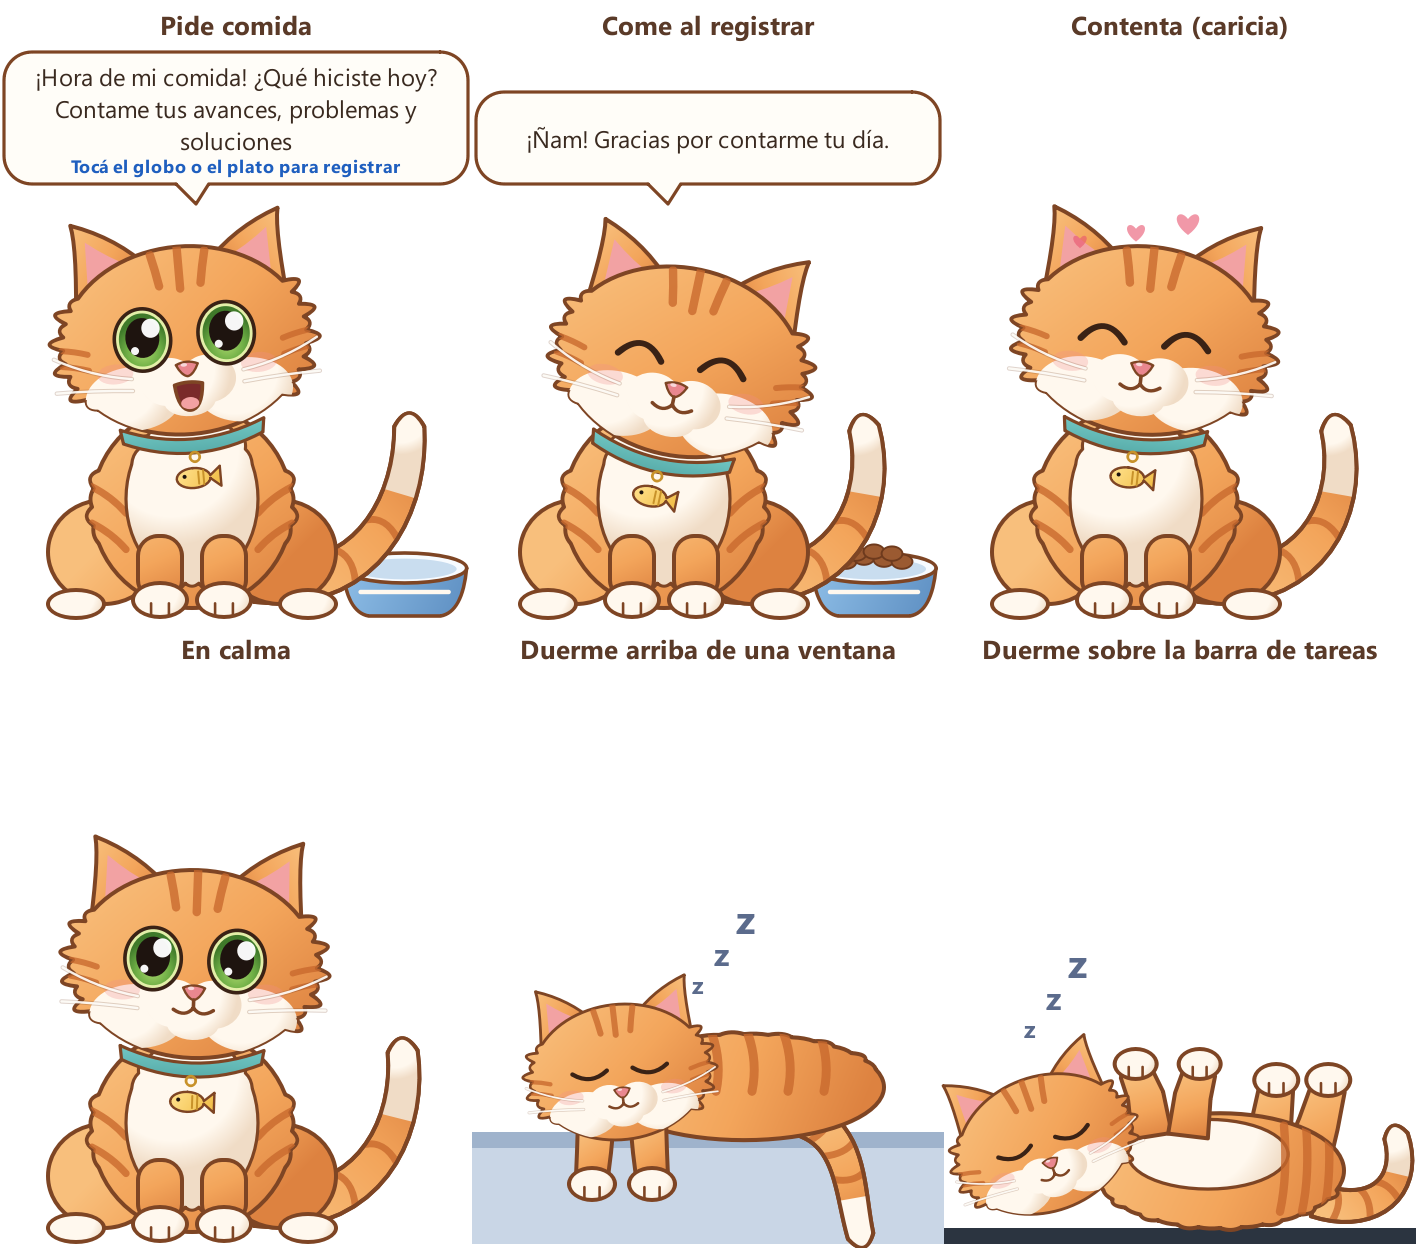
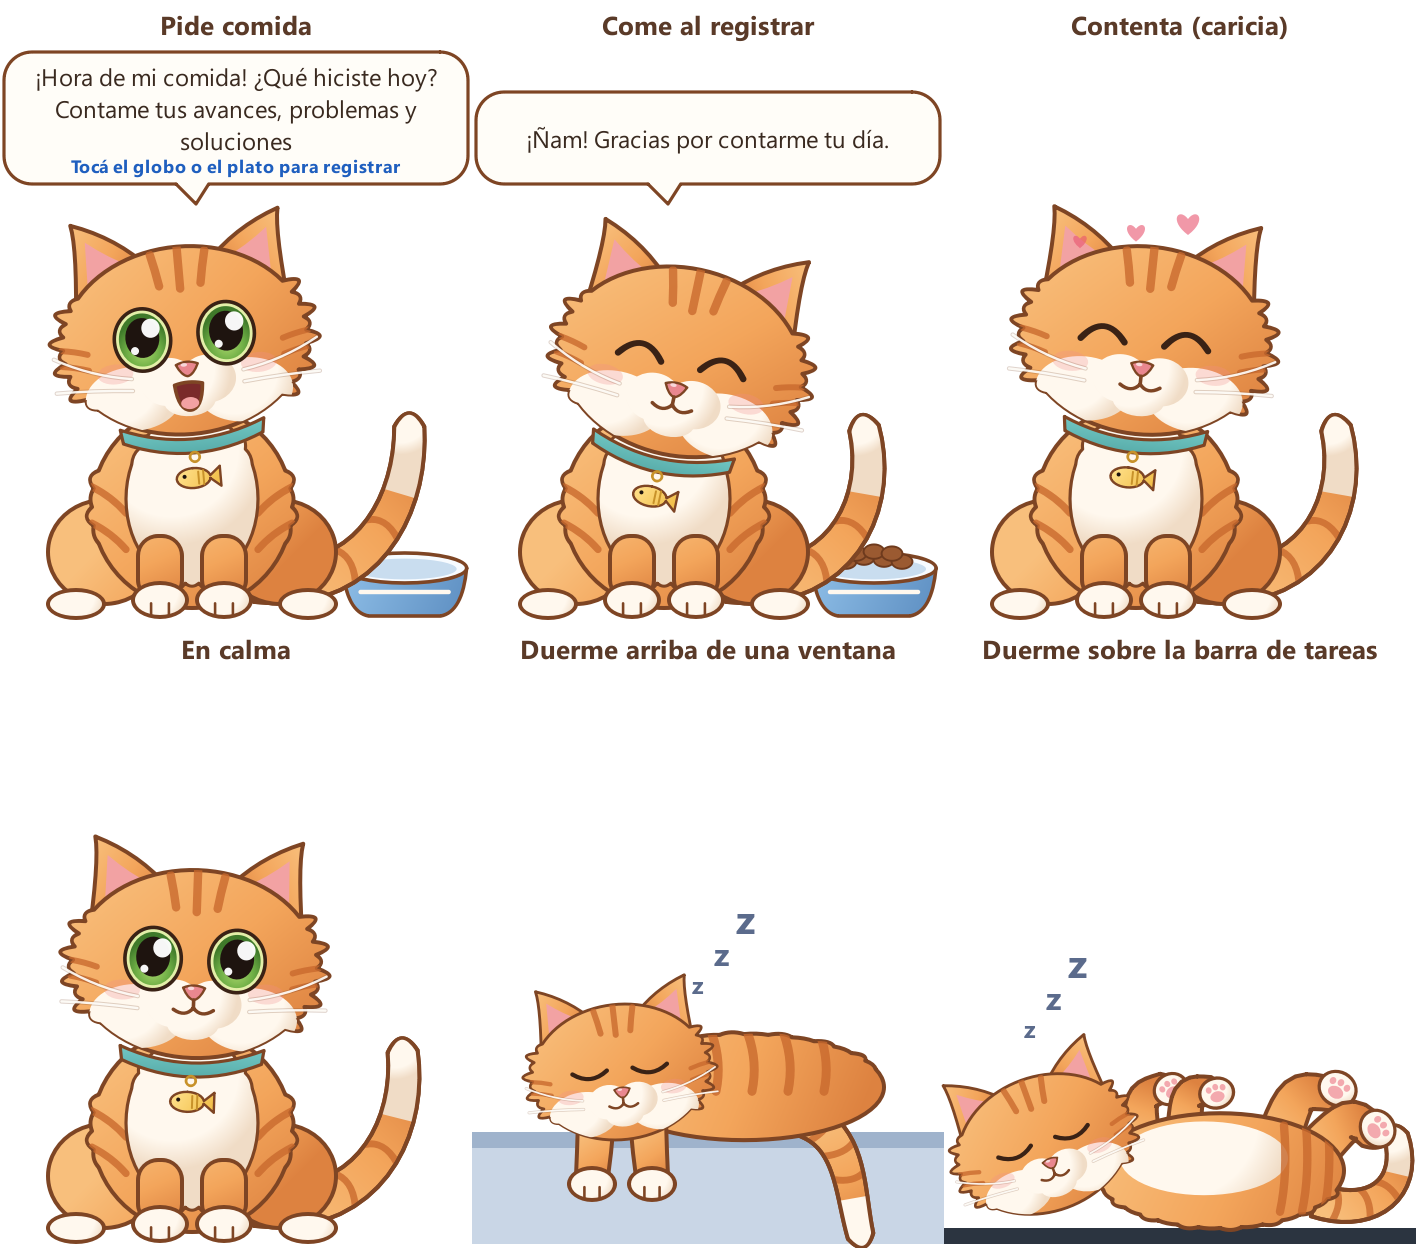
Cora: patas más naturales al dormir panza arriba
Patas cortas y dobladas que asoman detrás del cuerpo, patitas con almohadillas
rosadas que se mueven suave (amasando) y panza sin contorno.

Changed region(s): [[0.7768, 0.8438, 0.9944, 0.9688]]

diff --git a/coranotes/mascota/drawing.py b/coranotes/mascota/drawing.py
@@ -512,16 +512,48 @@ def pose_ventana(p, pal, v: Visual, t: float):
     p.restore()
 
 
+def draw_paw_pads(p, pal, cx, cy, r, angle=0.0):
+    """Patita vista desde abajo: blanca, con almohadilla y tres deditos rosados."""
+    p.save()
+    p.translate(cx, cy)
+    p.rotate(angle)
+    paw = QPainterPath()
+    paw.addEllipse(QPointF(0, 0), r, r * 0.88)
+    fill_outline(p, paw, white_brush(pal, 0, 0, r), pal, 1.7)
+    p.setPen(Qt.PenStyle.NoPen)
+    p.setBrush(pal.c(QColor("#F3A9AE")))
+    p.drawEllipse(QPointF(0, r * 0.22), r * 0.42, r * 0.32)        # almohadilla
+    for dx in (-0.42, 0.0, 0.42):                                   # deditos
+        p.drawEllipse(QPointF(dx * r, -r * 0.36 + abs(dx) * r * 0.25), r * 0.17, r * 0.19)
+    p.restore()
+
+
+def bent_leg(p, pal, base, knee, foot, w0, w1, n=10):
+    """Pata doblada (base -> rodilla -> pie) dibujada como un tubo suave."""
+    pts = bezier(base, knee, knee, foot, n)
+    widths = [w0 + (w1 - w0) * i / n for i in range(n + 1)]
+    path = tube(pts, widths)
+    fill_outline(p, path, fur_brush(pal, base[0], base[1], foot[0], foot[1]), pal)
+
+
 def pose_panza(p, pal, v: Visual, t: float):
     """Panza arriba sobre la barra de tareas: apoyo en y = SUELO['panza']."""
     ground = SUELO["panza"]
-    wig = math.sin(t * 3.0) * 3 if not v.reducido else 0
+    amasa = math.sin(t * 2.4) if not v.reducido else 0.0   # movimiento suave de las patitas
     draw_tail(p, pal, bezier((186, ground - 14), (214, ground - 4), (234, ground - 20), (226, ground - 46)), 17, 12)
-    # patas traseras arriba
-    for x, ang in ((160, 12), (180, 24)):
-        leg = tube([(x, ground - 30), (x + ang * 0.3, ground - 52), (x + ang * 0.5 + wig * 0.3, ground - 70)], [24, 20, 17])
-        fill_outline(p, leg, fur_brush(pal, x, ground - 70, x + 20, ground - 30), pal)
-        draw_paw(p, pal, x + ang * 0.5 + wig * 0.3, ground - 74, 11, 8)
+    # patas traseras: salen de detrás del cuerpo, con la rodilla doblada hacia afuera
+    for base, knee, foot, ang in (((166, ground - 40), (176, ground - 70), (194, ground - 66), 25),
+                                  ((182, ground - 34), (204, ground - 58), (214, ground - 46), 55)):
+        foot = (foot[0] + amasa * 1.2, foot[1] - abs(amasa) * 1.0)
+        bent_leg(p, pal, base, knee, foot, 22, 16)
+        draw_paw_pads(p, pal, foot[0] + 2, foot[1] - 3, 9.5, ang + amasa * 6)
+    # patas delanteras: cortitas y recogidas sobre el pecho, dobladas en la muñeca
+    # (se dibujan antes que el cuerpo: la base queda oculta y solo asoma la parte doblada)
+    for base, knee, foot, ang in (((100, ground - 40), (97, ground - 66), (111, ground - 71), -30),
+                                  ((120, ground - 44), (121, ground - 69), (134, ground - 69), -10)):
+        foot = (foot[0] - amasa * 1.0, foot[1] + amasa * 0.8)
+        bent_leg(p, pal, base, knee, foot, 17, 14)
+        draw_paw_pads(p, pal, foot[0] + 3, foot[1] + 1, 8.5, ang - amasa * 5)
     breath = 1 + (0.025 * math.sin(t * 1.4) if not v.reducido else 0)
     p.save()
     p.translate(136, ground)
@@ -529,8 +561,8 @@ def pose_panza(p, pal, v: Visual, t: float):
     p.translate(-136, -ground)
     body = fluffy(138, ground - 28, 62, 28, tufts=((20, 160, 0.08),), n=36)
     fill_outline(p, body, fur_brush(pal, 80, ground - 60, 200, ground), pal)
-    belly = fluffy(132, ground - 36, 40, 17, tufts=((0, 360, 0.12),), n=26)
-    fill_outline(p, belly, white_brush(pal, 132, ground - 40, 38), pal, 1.6)
+    belly = fluffy(130, ground - 34, 42, 18, tufts=((0, 360, 0.14),), n=28)
+    fill_outline(p, belly, white_brush(pal, 130, ground - 38, 40), pal, outline=False)  # panza suave, sin contorno
     p.save()
     p.setClipPath(body)
     for k in range(3):
@@ -538,11 +570,6 @@ def pose_panza(p, pal, v: Visual, t: float):
         stripe(p, pal, [(x, ground - 8), (x + 4, ground - 26), (x + 2, ground - 50)], 4.2)
     p.restore()
     p.restore()
-    # patas delanteras arriba (dobladitas)
-    for x, ang in ((104, -8), (122, 6)):
-        leg = tube([(x, ground - 46), (x + ang * 0.4, ground - 66), (x + ang - wig * 0.4, ground - 78)], [20, 18, 16])
-        fill_outline(p, leg, fur_brush(pal, x, ground - 80, x + 10, ground - 46), pal)
-        draw_paw(p, pal, x + ang - wig * 0.4, ground - 82, 10.5, 7.5)
     # cabeza recostada a la izquierda, mirando hacia arriba
     p.save()
     p.translate(50, ground - 42)
